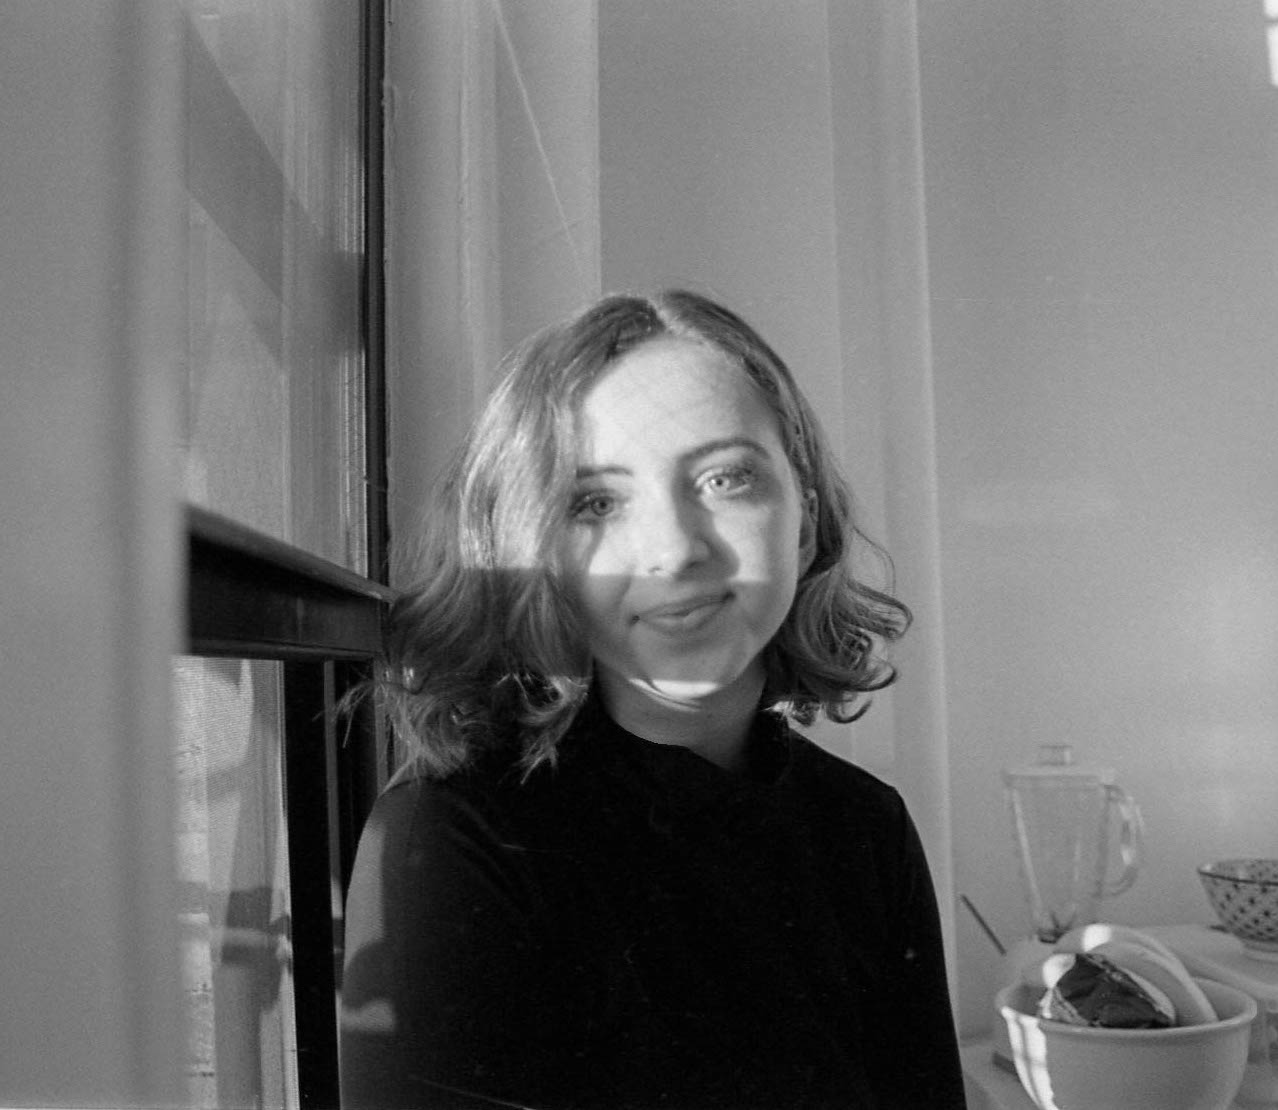
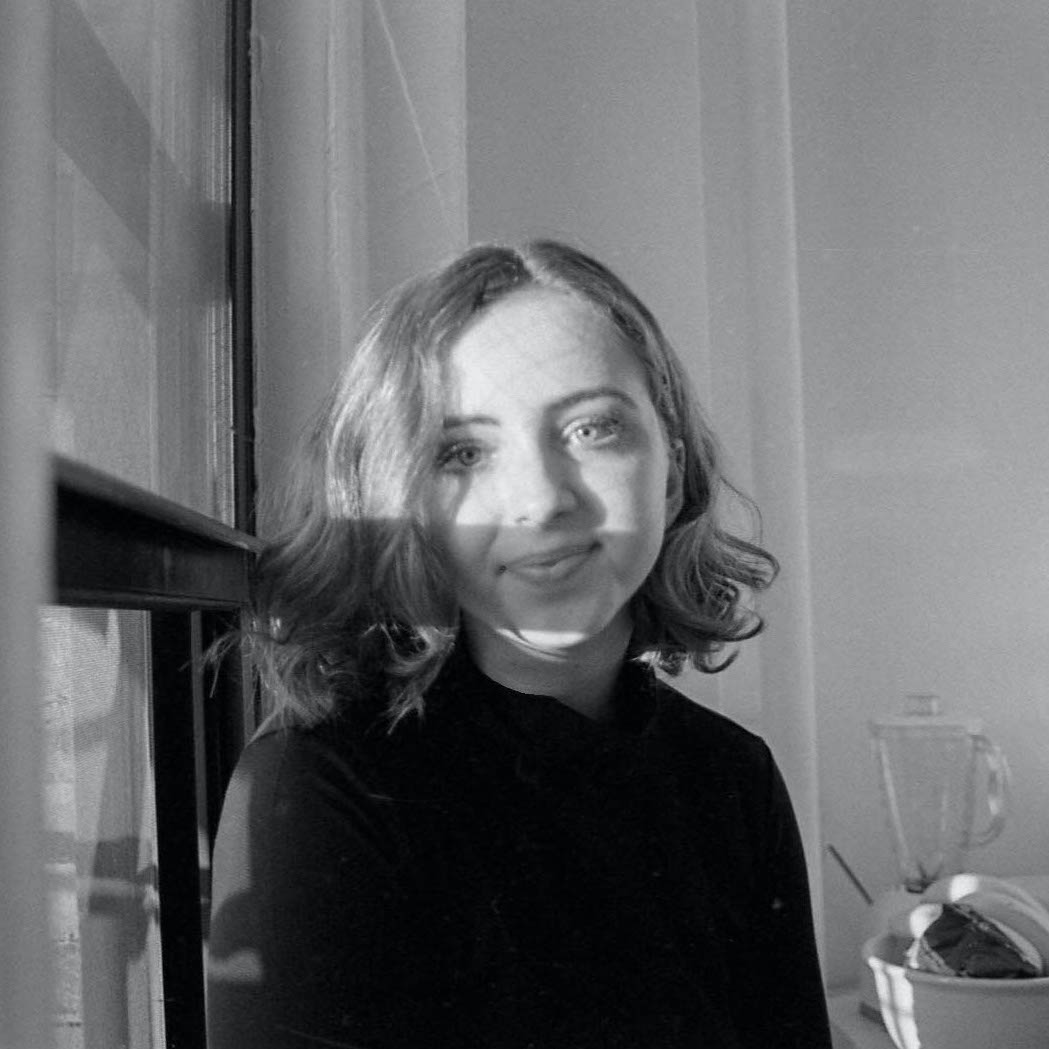
Link styles updated, animations cleaned up, about page proto in.

diff --git a/src/pages/about.js b/src/pages/about.js
@@ -12,10 +12,51 @@ const AboutPage = () => {
       </Helmet>
       <section className="about">
         <div className="about__section" data-section="left">
-          <h1 className="about__title"> Hi 👋 I'm Taylor.</h1>
-          <p className="about__copy">I'm a front </p>
+
+          <h1 className="about__title"
+              data-sal="slide-up"
+              data-sal-duration="600"
+              data-sal-delay="600"
+              data-sal-easing="ease-in-out"
+          > 
+            Hi 👋 I'm Taylor, <br />
+            a Front End Engineer <br />currently working for
+            <span> &nbsp; 
+              <a className='link__primary about__title--link'
+                href="https://www.lifeblue.com"
+                target="_blank"
+                rel="noreferrer">
+                Lifeblue.
+              </a>
+            </span>&nbsp;
+          </h1>
+          <p className="about__copy"
+             data-sal="fade"
+             data-sal-delay="800"
+             data-sal-duration="800"
+             data-sal-easing="ease-in-out"
+           >
+            I am passionate about building intuitive, accessible, and responsive digital experiences for users 
+            and stakeholders alike. I regularly work with frameworks and languages such as WordPress, PHP, 
+            Javascript, HTML5, LESS, SASS. I know that this is an ever-changing field to work in, and 
+            I am always eager to pick up new skills, languages, or improvements to my craft.
+          </p>
+          <p className='about__copy'
+              data-sal="fade"
+              data-sal-delay="800"
+              data-sal-duration="800"
+              data-sal-easing="ease-in-out">
+            I have formally studied Computer Science, UX Research and Design, as well as a bit of Feminist Theory 
+            and Art History. Whatever I am doing though, I hold a deep desire to 
+            <strong> learn as much as I can and to do good in the world.</strong>
+          </p>
         </div>
-        <div className="about__section" data-section="right">
+        <div className="about__section" 
+             data-section="right"
+             data-sal="fade"
+             data-sal-delay=""
+             data-sal-duration="400"
+             data-sal-easing="ease-in-out">
           <div className='about__img-wrapper'>
             <StaticImage src='../images/hi.jpg' alt='Black and white portrait of Taylor McPherson.'></StaticImage>   
           </div>

diff --git a/src/styles/shared/interactive.scss b/src/styles/shared/interactive.scss
@@ -22,12 +22,44 @@ a,
     display: flex;
     align-items: center;
     opacity: .5;
-    transition: all .25s ease-in-out;
+    transition: all .35s ease-in-out;
 
-    svg {
-        transition: all .25s ease-in-out; 
+    &:before {
+        content: '';
+        position: absolute;
+        width: 0;
+        height: 2px;
+        right: 0;
+        bottom: 0;
+        background-color: #7F93FF;
+        transition: width .3s ease-in-out;
     }
 
+    svg {
+        transition: all .35s ease-in-out; 
+    }
+
+    &:hover,
+    &:focus,
+    &.active {
+        opacity: 1;
+        
+        &:before {
+            width: 100%;
+            left: 0;
+        }
+
+        svg {
+            transform: translateX(4px);
+        }
+    }
+}
+
+
+.link__inline {
+    opacity: .5;
+    transition: all .25s ease-in-out;
+    
     &:hover,
     &:focus,
     &.active {
@@ -42,41 +74,9 @@ a,
             height: 2px;
             background-color: #7F93FF;
         }
-
-        svg {
-            transform: translateX(4px);
-        }
     }
 }
 
-
-.link__secondary {
-    position: relative;
-    display: flex;
-    align-items: center;
-    opacity: .5;
-    transition: all .25s ease-in-out;
-
-    svg {
-        transition: all .25s ease-in-out; 
-    }
-
-    &:hover,
-    &:focus {
-        opacity: 1;
-        
-        &:before {
-            content: '';
-            position: absolute;
-            right: 0;
-            bottom: 0;
-            left: 0;
-            height: 2px;
-            background-color: green;
-        }
-
-        svg {
-            transform: translateX(4px);
-        }
-    }
+.link__dark {
+    color: white;
 }

diff --git a/src/styles/pages/about.scss b/src/styles/pages/about.scss
@@ -1,29 +1,54 @@
 .about {
     display: flex;
-    align-items: center;
+    align-items: flex-start;
     justify-content: space-between;
     min-height: calc(100vh - 62px);
-    background-color: #232129;
-    color: white;
+    max-width: 86vw;
+    margin: 0 auto;
     padding: 40px;
+
 }
 
 .about__section {
-    flex: 0 0 50%;
 
     &[data-section=left] {
-       
+        flex: 0 0 60%;
     }
 
     &[data-section=right] {
-       
+        flex: 1;
+    }
+}
+
+.about__title {
+    font-size: 44px;
+    line-height: 60px;
+
+    &--link {
+        display: inline-block;
+        font-size: 44px;
+        line-height: 60px;
+
+        opacity: .7;
+
+        &:hover,
+        &:focus {
+            opacity: 1;
+        }
+    }
+}
+
+.about__copy {
+    strong {
+        font-weight: 900;
     }
 }
 
 .about__img-wrapper {
     justify-self: flex-end;
-    max-width: 400px;
-    max-height: 400px;
+    max-width: 300px;
+    margin: 0 auto;
+    margin-top: 20px;
     border-radius: 50%;
     overflow: hidden;
 }

diff --git a/src/components/projectCards.js b/src/components/projectCards.js
@@ -1,11 +1,6 @@
 import * as React from 'react'
-//import { StaticImage } from "gatsby-plugin-image"
 import { FontAwesomeIcon } from "@fortawesome/react-fontawesome"
 import { faAngleRight } from "@fortawesome/free-solid-svg-icons"
-//import { Link } from 'gatsby'
-//import { FontAwesomeIcon } from "@fortawesome/react-fontawesome"
-//import { faExternalLinkAlt } from "@fortawesome/free-solid-svg-icons"
-
 import HeiferImage from "../images/heifer.png"
 import PernImage from "../images/pern.png"
 import BlogImage from "../images/great-blog.png"
@@ -79,8 +74,8 @@ const ProjectCards = () => {
                     key={index}
                     data-color={project.color}
                     data-sal="fade"
-                    data-sal-duration="80"
-                    data-sal-delay="100"
+                    data-sal-duration="300"
+                    data-sal-delay="300"
                     data-sal-easing="ease-in-out"
                 >  
                   <div className="projectCards__card-img-wrapper">

diff --git a/src/styles/pages/work.scss b/src/styles/pages/work.scss
@@ -22,21 +22,26 @@
     letter-spacing: 1.5px;
 }
 
-.work__section-animation {
-    display: flex;
-    flex-wrap: nowrap;
-    display: flex;
-    will-change: transform;
-    
-    &:hover {
-        animation: marqueeOne 30s infinite forwards;
-    }
-}
 
 .work__section-title {
+    position: relative;
     font-family: 'Raleway', sans-serif;
-    font-size: 3.5em;
+    font-size: 3em;
+    line-height: 1.5em;
     white-space: nowrap;
+    padding-left: 100px;
+
+    &:before {
+        content: '';
+        position: absolute;
+        left: 40px;
+        top: 50%;
+        transform: translateY(-50%);
+        width: .5em;
+        height: .5em;
+        border-radius: 50%;
+        background-color: #232129;
+    }
 }
 
 @keyframes marqueeOne {

diff --git a/src/styles/components/projectCards.scss b/src/styles/components/projectCards.scss
@@ -48,7 +48,6 @@
 
 .projectCards__card-img {
     position: relative;
-    //max-height: 60vh;
     transition: all .40s ease-in-out;
 
     img {
@@ -93,16 +92,14 @@
     box-shadow: 4px 2px 8px rgba(0,0,0,.15);
     color: white;
     border-radius: 50%;
-    font-family: 'Roboto', sans-serif;
-    font-size: 14px;
+    //font-family: 'Roboto', sans-serif;
+    font-size: .8em;
     font-weight: bold;
     transition: all .35s ease-in-out;
 
-    &:hover,
-    &:focus {
+    &:hover {
         cursor: pointer;
         animation: rotate 5s infinite forwards;
-
     }
 }
 

diff --git a/src/pages/work.js b/src/pages/work.js
@@ -48,12 +48,9 @@ const WorkPage = () => {
         </section>
 
         <section className="work__projects-container">
-          <div className="work__section-animation">
-            <h2 className="work__section-title" 
-                aria-label="'Selected Works' in a text marquee.">
-              KS • SELECTED WORKS • SELECTED WORKS • SELECTED WORKS 
-            </h2>
-          </div>
+          <h2 className="work__section-title">
+            Selected Work
+          </h2>
           <ProjectCards></ProjectCards>
         </section>
       </div>

diff --git a/src/styles/components/footer.scss b/src/styles/components/footer.scss
@@ -23,11 +23,16 @@
 .footer__link {
     svg {
         color: white;
+        transition: all .35s ease-in-out;
     }
 
     &:hover {
         svg {
             color: #7F93FF;
         }
+    }
+
+    &:focus {
+        outline-color: white;
     }
 }

diff --git a/src/styles/styles.scss b/src/styles/styles.scss
@@ -15,7 +15,7 @@
 * {
 
     &:focus {
-        outline: 2px dashed #232129;
+        outline: 1px dashed #232129;
         outline-offset: 2px;
     }
 }

diff --git a/src/styles/components/navbar.scss b/src/styles/components/navbar.scss
@@ -38,6 +38,8 @@
 
 .navbar__link--resume {
     svg {
+        width: .8em;
+        height: .8em;
         margin-left: 4px;
     }
 }
